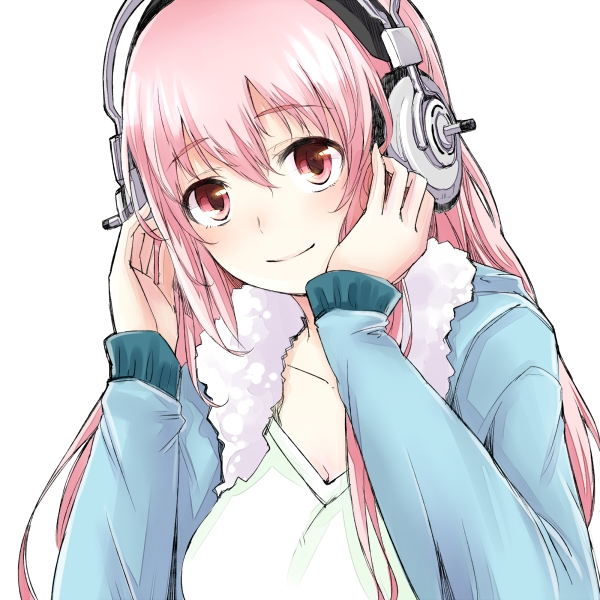
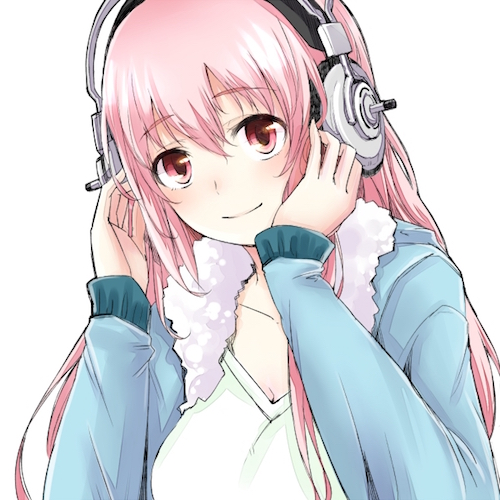
Sonico v1.1 | Build dev/5
New profile images, various improvements and other stuff.

diff --git a/Sonico.py b/Sonico.py
@@ -1,14 +1,21 @@
-import discord, asyncio, time, datetime, os, logging, sys, config
+import discord, asyncio, time, datetime, os, logging, sys
+
+#Command Extensions
 from cogs.mal import mal
 from cogs.osu import osu
+
+#Connect to Discord API
 client = discord.Client()
-token = config.token #Insert Discord Bot Token
-adminID = config.admins #Insert your ID to access the Admin commands
-version = "1.0 dev"
-build = "dev/4"
 
+#Insert your Token and Admin IDs here.
+token = '' #Insert your Application Token here.
+adminID = "" #Add the IDs of the Admins here.
 
+#Version
+version = "1.1"
+build = "dev/5"
 
+#Logging
 now = datetime.datetime.now()
 if os.path.isdir("logs") == False: #Setting up logging:
     os.makedirs("logs/")
@@ -20,20 +27,20 @@ handler.setFormatter(logging.Formatter('%(asctime)s:%(levelname)s:%(name)s: %(me
 logger.addHandler(handler)
 print("Session log file: ", logfile)
 
-print("")
-print("Sonico: A Bot by Silverdroid. - v."+ str(version))
+print("\nSonico: A Bot by Silverdroid. - v."+ str(version))
 print("Eating Macarons while starting up")
-print("")
+print("\nNOTE: This is a DEVELOPER Build.")
+print("Those builds still have issues and might not run properly.")
+print("For a stable build of Sonico, head to the /master branch.")
 @client.event
 async def on_ready():
-    print("Logged in to Discord as "+client.user.name+"#"+client.user.discriminator)
+    print("\nLogged in to Discord as "+client.user.name+"#"+client.user.discriminator)
     print("User ID: "+str(client.user.id))
-    print("")
-    await client.change_presence(game=discord.Game(name=".help (*・ω・)ﾉ | v"+str(version)))
-    print("Sonico is ready, nya~")
+    await client.change_presence(game=discord.Game(name="Developer Build | v"+str(version)))
+    print("\nSonico is ready, nya~")
 @client.event
 async def on_message(message):
-    if message.content.startswith(".help"):
+    if message.content.startswith(".dev help"):
         Embed = discord.Embed()
         Embed.color = discord.Color.green()
         Embed.set_author(name="Sonico Help", icon_url="http://assets.silverdroid.ga/assets/sonico/avatar.png")
@@ -50,7 +57,7 @@ async def on_message(message):
         await client.send_message(message.channel, embed=Embed)
 
     #Generic Commands
-    if message.content.startswith(".invite"):
+    if message.content.startswith(".dev invite"):
         Embed = discord.Embed()
         Embed.color = discord.Color.blue()
         Embed.set_author(name="Click here to invite me to another Server, nya~", url="http://sonico.silverdroid.ga/invite.php", icon_url="http://assets.silverdroid.ga/assets/sonico/avatar.png")
@@ -58,7 +65,7 @@ async def on_message(message):
         Embed.add_field(name="🎉 Invite me (´｡• ᵕ •｡`)", value="http://sonico.silverdroid.ga/invite.php   .")
         Embed.add_field(name="💾 View my code on Github!", value="http://sonico.silverdroid.ga/github.php")
         await client.send_message(message.channel, embed=Embed)
-    if message.content.startswith(".about"):
+    if message.content.startswith(".dev about"):
         Embed = discord.Embed()
         Embed.color = discord.Color.green()
         Embed.set_author(name="About Sonico", icon_url="http://assets.silverdroid.ga/assets/sonico/avatar.png")
@@ -67,7 +74,7 @@ async def on_message(message):
         Embed.add_field(name="🤖", value="Bot Version: v"+str(version))
         Embed.add_field(name="📌", value="Build Number: "+str(build))
         await client.send_message(message.channel, embed=Embed)
-    if message.content.startswith(".website"):
+    if message.content.startswith(".dev website"):
         Embed.set_author(name="Check out my website, nya~", url="http://sonico.silverdroid.ga", icon_url="http://assets.silverdroid.ga/assets/sonico/avatar.png")
         Embed.set_footer(text="Sonico - v"+str(version))
         Embed.add_field(name="🌍 Sonico on the Web:", value="http://sonico.silverdroid.ga")
@@ -75,7 +82,7 @@ async def on_message(message):
 
 
     #Misc. Commands
-    if message.content.startswith(".avatar"):
+    if message.content.startswith(".dev avatar"):
         if message.mentions:
             mention = message.mentions[0]
         else:
@@ -86,7 +93,7 @@ async def on_message(message):
         Embed.set_image(url=mention.avatar_url)
         await client.send_message(message.channel, embed=Embed)
 
-    if message.content.startswith(".user"):
+    if message.content.startswith(".dev user"):
         if message.mentions:
             mention = message.mentions[0]
         else:
@@ -105,63 +112,82 @@ async def on_message(message):
             Embed.add_field(name="Bot?", value="❌")
         await client.send_message(message.channel, embed=Embed)
 
-    if message.content.startswith(".anime"):
-        query = message.content[6:]
+    if message.content.startswith(".dev anime"):
+        query = message.content[10:]
         embed = discord.Embed()
-        embed.title = "Animu | {0}".format(query)
+        embed.title = "🌺 Anime | {0}".format(query)
         dat = mal.animu(query)
         if dat == "serverError":
-            embed.description = "Sorry! Something isn't right at the moment, I've let the developers know."
+            embed.description = "Sorry! Something isn't right at the moment, I'll let the developers know."
+            embed.set_image(url="http://sonico.silverdroid.ga/img/owo.jpg")
         elif dat == "credError":
-            embed.description = "Sorry! Something isn't right at the moment, I've let the developers know."
-        elif dat == "noResults":
-            embed.description = "Awh shucks, I didn't find anything for that search query!"
+            embed.description = "Sorry! Something isn't right at the moment, I'll let the developers know."
+            embed.set_image(url="http://sonico.silverdroid.ga/img/owo.jpg")
+        elif dat == "noResults":   
+            embed.description = "I couldn't find anything, nya~ (´｡• ᵕ •｡`)"
+            embed.set_image(url="http://sonico.silverdroid.ga/img/uwu.jpg")
         else:
             embed = discord.Embed()
-            embed.title = "Animu | {0}".format(dat[0])
+            embed.title = "🌺 Anime | {0}".format(dat[0])
             embed.color = discord.Color.blue()
             embed.description = str(dat[1])
             embed.set_footer(text="https://myanimelist.net", icon_url='https://myanimelist.cdn-dena.com/images/faviconv5.ico')
         await client.send_message(message.channel, embed=embed)
 
-    if message.content.startswith(".osu"):
+    if message.content.startswith(".dev osu"):
         query = message.content[3:]
         embed = discord.Embed()
         embed.title = "osu! | {0}".format(query)
         dat = osu.osuapi(query)
         if dat == 'serverError':
             embed.description = "Hmm... That didn't work. Try again later, nya~"
+            embed.set_image(url="http://sonico.silverdroid.ga/img/owo.jpg")
         elif dat == "credError":
-            embed.description = "Hmm... Something broke. Try again later! (devs notified!)"
+            embed.description = "Hmm... Something broke. Try again later, nya~)"
+            embed.set_image(url="http://sonico.silverdroid.ga/img/owo.jpg")
         elif dat == "noResults":
-            embed.description = "I couldn't find anything, nya~ Try something different."
+            embed.description = "I couldn't find anything, nya~ (´｡• ᵕ •｡`)"
+            embed.set_image(url="http://sonico.silverdroid.ga/img/uwu.jpg")
         else:
             embed = discord.Embed()
             embed.title = 'osu! | {0}'.format(query)
-            embed.color = discord.Color.pink()
+            embed.color = discord.Color.blue()
             embed.description = str(dat[1])
             embed.set_footer(text="https://osu.ppy.sh", icon_url='https://new.ppy.sh/images/layout/osu-logo.png')
             await client.send_message(message.channel, embed=Embed)
     #Admin Commands
-    if message.content.startswith(".profileimage"):
+    if message.content.startswith(".dev profileimage"):
         if message.author.id == adminID:
-            print("Updating profile image, nya~")
+            print("\nUpdating profile image...")
             message_id = await client.send_message(message.channel, ":clock2: Updating profile image, nya~")
             if "default" in message.content.lower():
-                file = "images/avatar.png"
+                file = "images/default.png"
             elif "macaron" in message.content.lower():
                 file = "images/macaron.jpg"
             elif "music" in message.content.lower():
                 file = "images/music.jpg"
+            elif "cats" in message.content.lower():
+                file = "images/cats.jpg"
+            elif "guitar" in message.content.lower():
+                file = "images/guitar.jpg"
+            elif "opener" in message.content.lower():
+                file = "images/opener.jpg"
+            elif "owo" in message.content.lower():
+                file = "images/owo.jpg"
+            elif "uwu" in message.content.lower():
+                file = "images/uwu.jpg"
             else:
+                print("Error: That file does not exist, nya~")
                 Embed = discord.Embed()
                 Embed.color = discord.Color.red()
                 Embed.add_field(name="Error.", value="Nani? That image doesn't exist, nya~ (´｡• ᵕ •｡`)")
+                Embed.set_image(url="http://sonico.silverdroid.ga/img/uwu.jpg")
                 await client.send_message(message.channel, embed=Embed)
                 return
             logo = open(file,"rb")
             await client.edit_profile(avatar=logo.read())
             await client.delete_message(message_id)
+            print("\nSuccessfully updated image, nya~")
             Embed = discord.Embed()
             Embed.color = discord.Color.green()
             Embed.add_field(name="✅ Image updated.", value="Do I look pretty? Nya~")
@@ -171,7 +197,7 @@ async def on_message(message):
             Embed.color = discord.Color.red()
             Embed.add_field(name="Error.", value="You don't have Permission for that, nya~ (´｡• ᵕ •｡`)")
             await client.send_message(message.channel, embed=Embed)
-    if message.content.startswith(".status"):
+    if message.content.startswith(".dev status"):
         if message.author.id == adminID:
             await client.change_presence(game=discord.Game(name=message.content[8:]))
             Embed = discord.Embed()

diff --git a/readme.md b/readme.md
@@ -1,6 +1,6 @@
 # Sonico Development Branch
 A Discord bot by Silverdroid.
-Version 1.0 DEV | Build dev/4
+Version 1.1 | Build dev/5
 
 ```Please note!
 This is a DEVELOPMENT BUILD. Some features will not be working properly.
